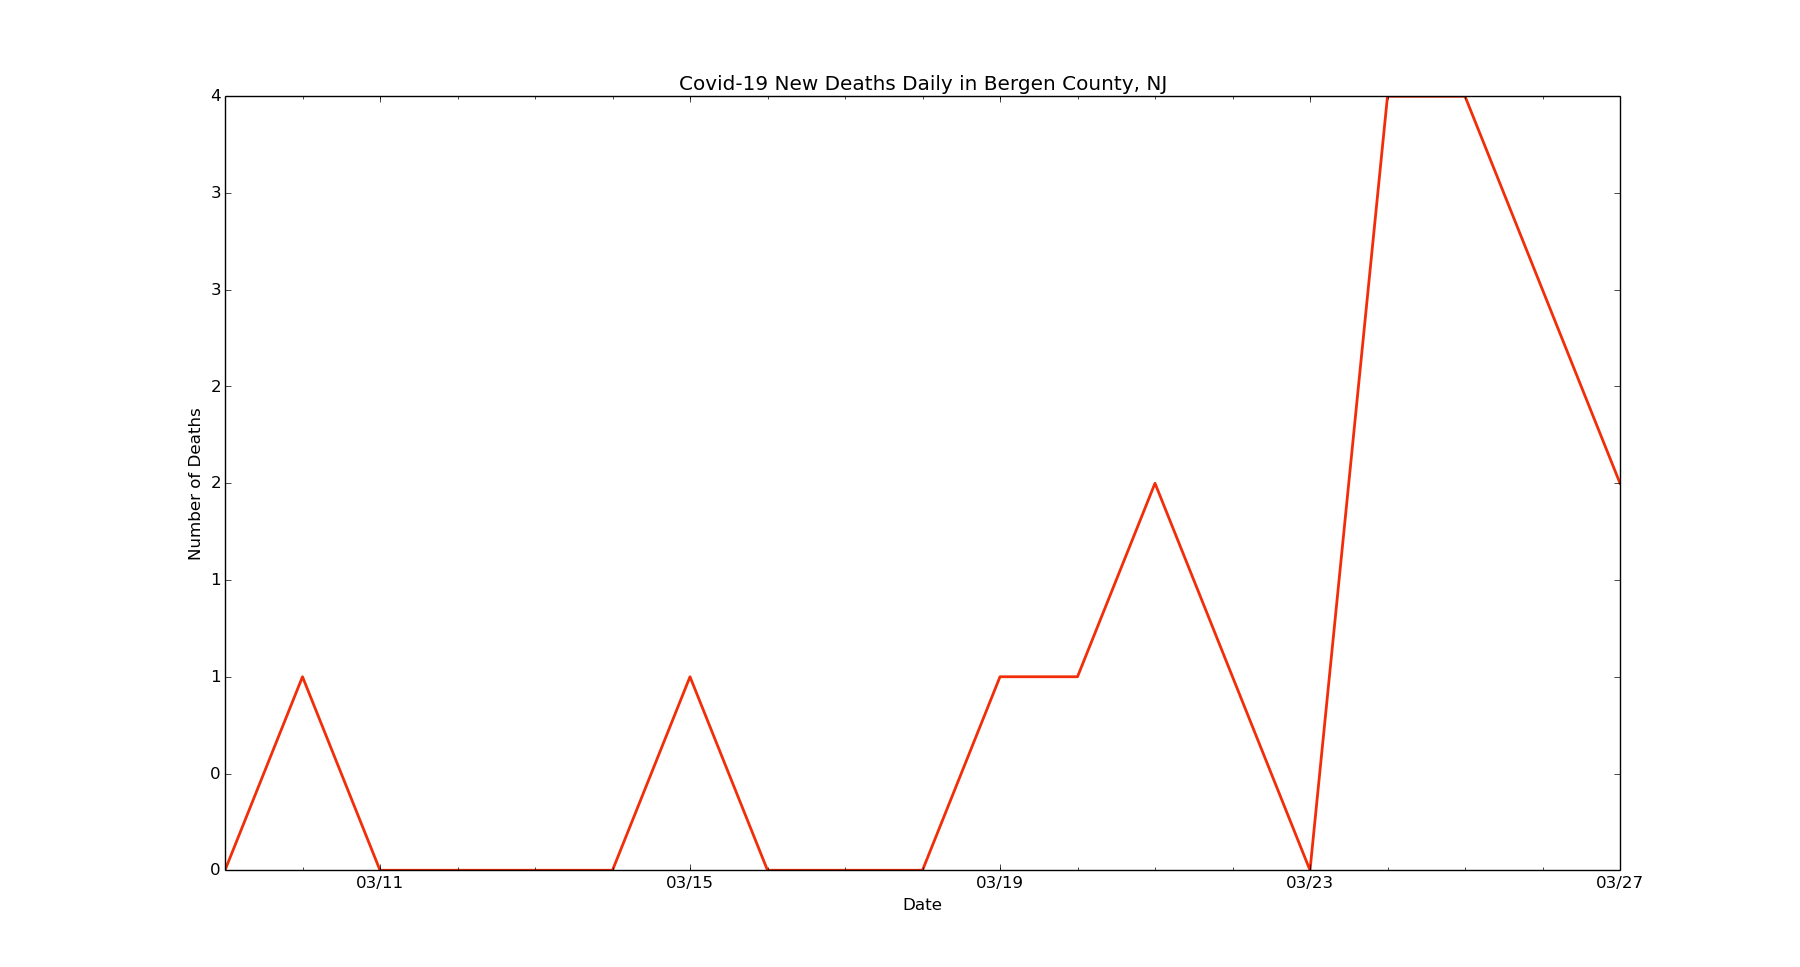
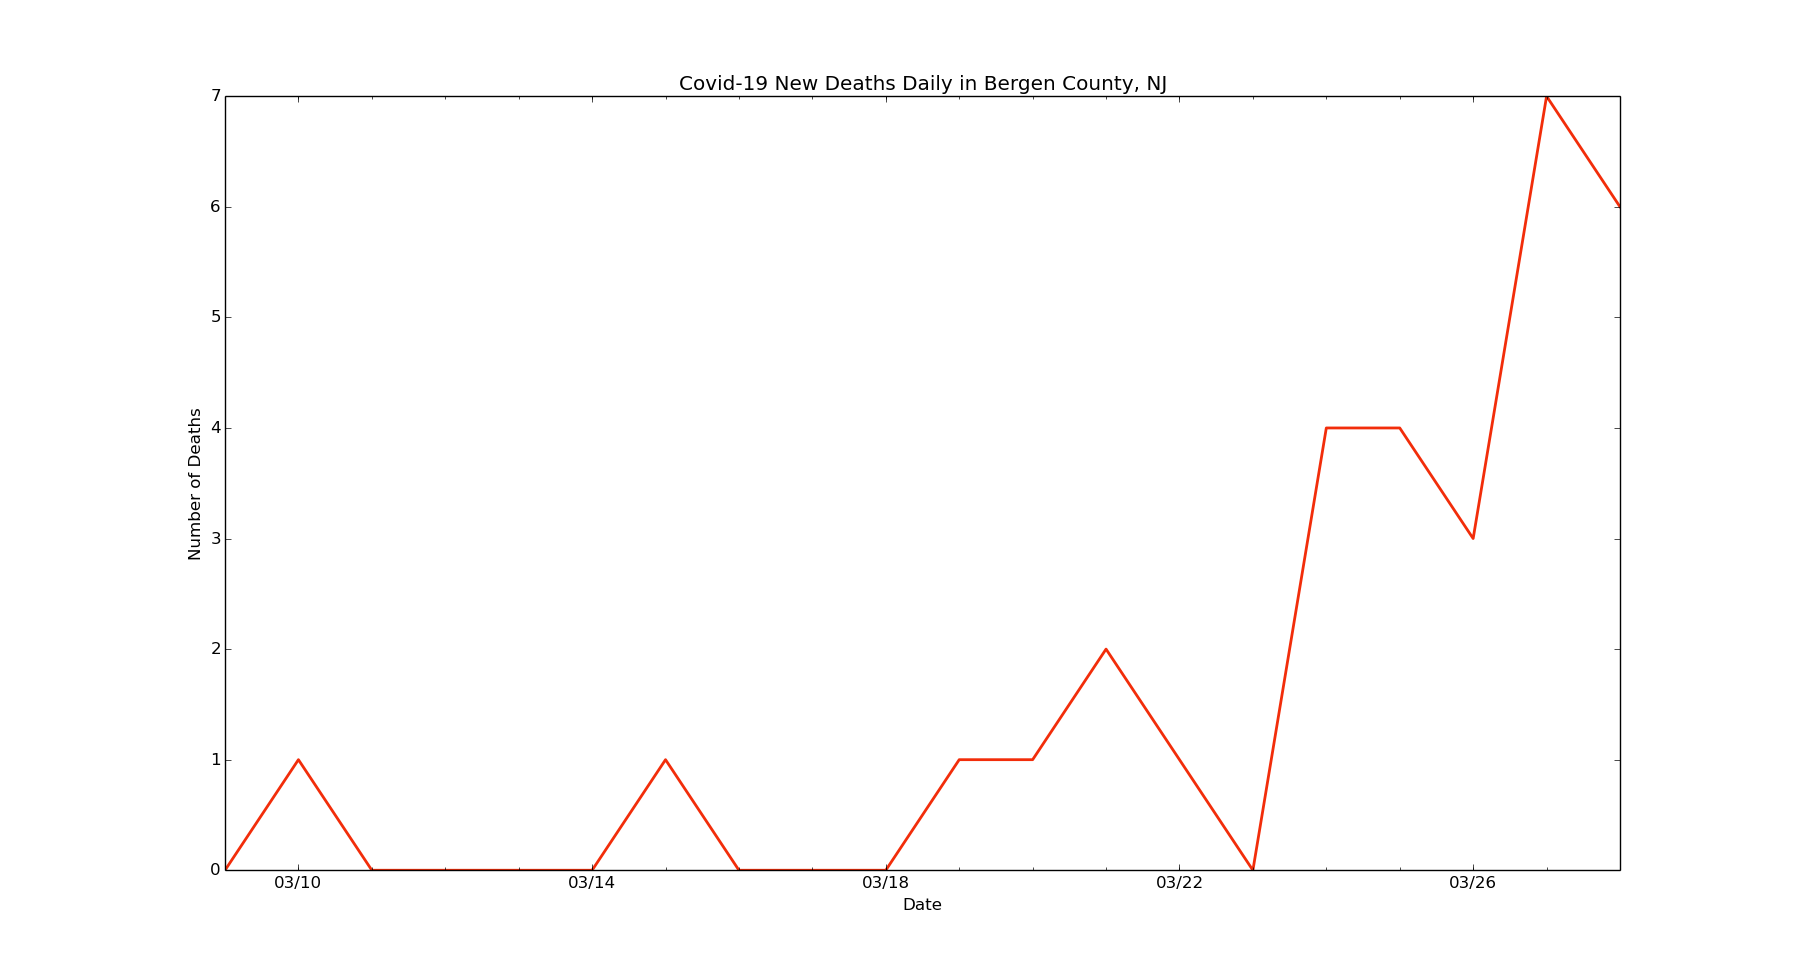
chore: Update data and graphs for Bergen County

diff --git a/bergen-county/bergen-new-cases.py b/bergen-county/bergen-new-cases.py
@@ -6,7 +6,7 @@ import matplotlib.dates as mdates
 import matplotlib.ticker as ticker
 from matplotlib.dates import MO, TU, WE, TH, FR, SA, SU
 
-dates = ['3/3/2020', '3/4/2020', '3/5/2020', '3/6/2020', '3/7/2020', '3/8/2020', '3/9/2020', '3/10/2020', '3/11/2020', '3/12/2020', '3/13/2020', '3/14/2020', '3/15/2020', '3/16/2020', '3/17/2020', '3/18/2020', '3/19/2020', '3/20/2020', '3/21/2020', '3/22/2020', '3/23/2020', '3/24/2020', '3/25/2020', '3/26/2020', '3/27/2020']
+dates = ['3/3/2020', '3/4/2020', '3/5/2020', '3/6/2020', '3/7/2020', '3/8/2020', '3/9/2020', '3/10/2020', '3/11/2020', '3/12/2020', '3/13/2020', '3/14/2020', '3/15/2020', '3/16/2020', '3/17/2020', '3/18/2020', '3/19/2020', '3/20/2020', '3/21/2020', '3/22/2020', '3/23/2020', '3/24/2020', '3/25/2020', '3/26/2020', '3/27/2020', '3/28/2020']
 
 # format dates
 x_values = [datetime.datetime.strptime(d, "%m/%d/%Y").date() for d in dates]
@@ -24,7 +24,7 @@ ax.xaxis.set_minor_locator(mdates.WeekdayLocator(byweekday=(MO, TU, WE, TH, FR, 
 ax.get_yaxis().set_major_formatter(ticker.FuncFormatter(lambda x, pos: format(int(x), ',')))
 
 # new cases by day
-new_cases = [0, 1, 1, 1, 0, 1, 1, 2, 4, 2, 2, 10, 7, 10, 44, 27, 81, 55, 114, 94, 152, 76, 172, 349, 299]
+new_cases = [0, 1, 1, 1, 0, 1, 1, 2, 4, 2, 2, 10, 7, 10, 44, 27, 81, 55, 114, 94, 152, 76, 172, 349, 299, 327]
 
 # text labels
 plt.title('Covid-19 New Cases Each Day in Bergen County, NJ')

diff --git a/bergen-county/bergen-deaths-new.py b/bergen-county/bergen-deaths-new.py
@@ -6,7 +6,7 @@ import matplotlib.dates as mdates
 import matplotlib.ticker as ticker
 from matplotlib.dates import MO, TU, WE, TH, FR, SA, SU
 
-dates = ['3/9/2020', '3/10/2020', '3/11/2020', '3/12/2020', '3/13/2020', '3/14/2020', '3/15/2020', '3/16/2020', '3/17/2020', '3/18/2020', '3/19/2020', '3/20/2020', '3/21/2020', '3/22/2020', '3/23/2020', '3/24/2020', '3/25/2020', '3/26/2020', '3/27/2020']
+dates = ['3/9/2020', '3/10/2020', '3/11/2020', '3/12/2020', '3/13/2020', '3/14/2020', '3/15/2020', '3/16/2020', '3/17/2020', '3/18/2020', '3/19/2020', '3/20/2020', '3/21/2020', '3/22/2020', '3/23/2020', '3/24/2020', '3/25/2020', '3/26/2020', '3/27/2020', '3/28/2020']
 
 # format dates
 x_values = [datetime.datetime.strptime(d, "%m/%d/%Y").date() for d in dates]
@@ -24,7 +24,7 @@ ax.xaxis.set_minor_locator(mdates.WeekdayLocator(byweekday=(MO, TU, WE, TH, FR, 
 ax.get_yaxis().set_major_formatter(ticker.FuncFormatter(lambda x, pos: format(int(x), ',')))
 
 # new deaths by day
-new_deaths = [0, 1, 0, 0, 0, 0, 1, 0, 0, 0, 1, 1, 2, 1, 0, 4, 4, 3, 2]
+new_deaths = [0, 1, 0, 0, 0, 0, 1, 0, 0, 0, 1, 1, 2, 1, 0, 4, 4, 3, 7, 6]
 
 # text labels
 plt.title('Covid-19 New Deaths Daily in Bergen County, NJ')
